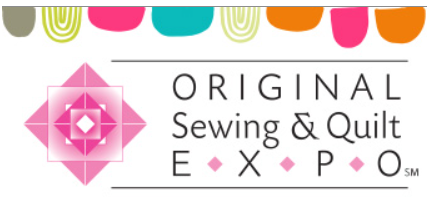
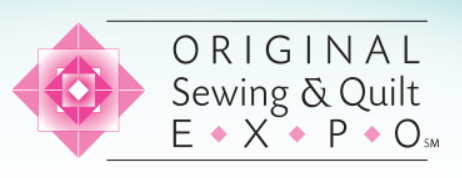
Updates to CSS and README file

diff --git a/styles/main.css b/styles/main.css
@@ -136,27 +136,25 @@ section p {
 .expo-section-container span {
     display:block;
     text-align: justify;
-    margin-bottom: 2rem; 
-}
-.flex-container-expo {
-    display: flex;
-    flex-flow: row wrap;
-    justify-content: space-evenly;
-    align-items: baseline;   
+    margin-bottom: 1rem; 
 }
 
 .expo-section-container img {
+    display:flex;
+    justify-content: center;
     margin-bottom: 1rem; 
     margin-top: 1rem; 
     box-shadow: 0 10px 15px 0 rgb(43, 46, 34); 
 }
 
+
 /*SECTION: COUNTDOWN*/
 
-.coundown-content span {
+.countdown-content 
+    span {
     display:flex;
     justify-content: center;
-}
+    }
     #clockdiv{
     font-family: sans-serif;
     color: #fff;
@@ -169,14 +167,14 @@ section p {
     #clockdiv > div{
     padding: 10px;
     border-radius: 3px;
-    background: #00BF96;
+    background: #0687F7;
     display: inline-block;
     }
     
     #clockdiv div > span{
     padding: 15px;
     border-radius: 3px;
-    background: #00816A;
+    background: #365a91;
     display: inline-block;
     }
     

diff --git a/script.js b/script.js
@@ -46,6 +46,7 @@ phone_input.addEventListener('invalid', () => {
 });
 //End of New Code For Phone Validation - regex - KW
 
+
 //Code For Countdown-As of March 2022
 function getTimeRemaining(endtime) {
     const total = Date.parse(endtime) - Date.parse(new Date());

diff --git a/README.md b/README.md
@@ -31,8 +31,8 @@ Version 2.0 is a responsive design site with the following project requirements:
   5) Feature 2 - Create an array with multiple values, retrieve at least one value and use or display it in your application - Refer to preCuts.js which now displays content in the PRECUT IMAGES section
   6) Feature 3 - Implement a regular expression (regex) to ensure a phone number field is always stored and displayed in the same format  [Use of pattern attribute which takes a regular expression to validate the phone number input] - Refer to Contact Us form - specifically the phone input field
   7) Feature 4 - Build a conversion tool that converts user input to another type and displays it - Refer to the FABRIC PRECUTS section  
-  8) Feature 5 - Calculate and display data based on an external factor [Get current date and display how many days remaining until an event]
-  9) Feature 6 - Create a form and save the values to an external file
+  8) Feature 5 - Calculate and display data based on an external factor [Get current date and display how many days remaining until an event] - Refer to the EXPO section to view the countdown clock
+  
 ---------------------------------------------------------------------------------------
 Sew Bug Tips Version 1.0 - Date 12/4/2021
 Version 1.0 is a responsive design site with the following project requirements:
